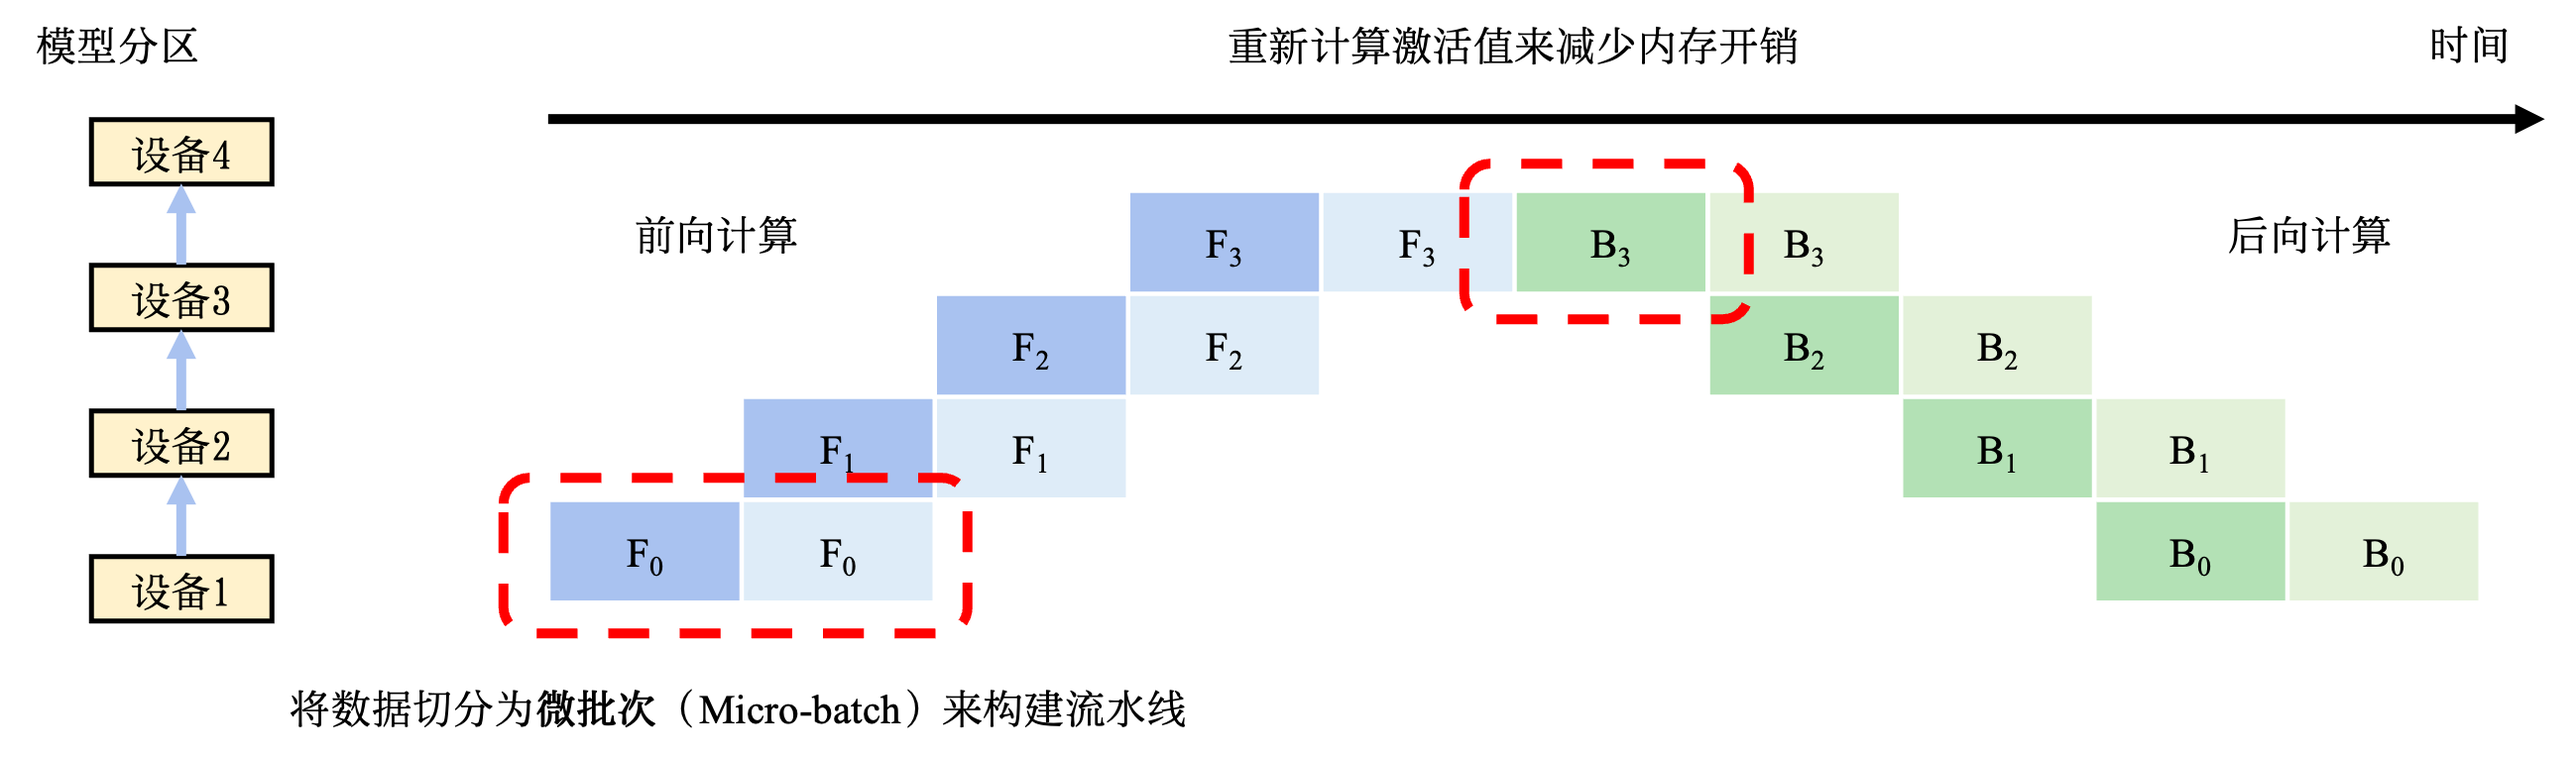
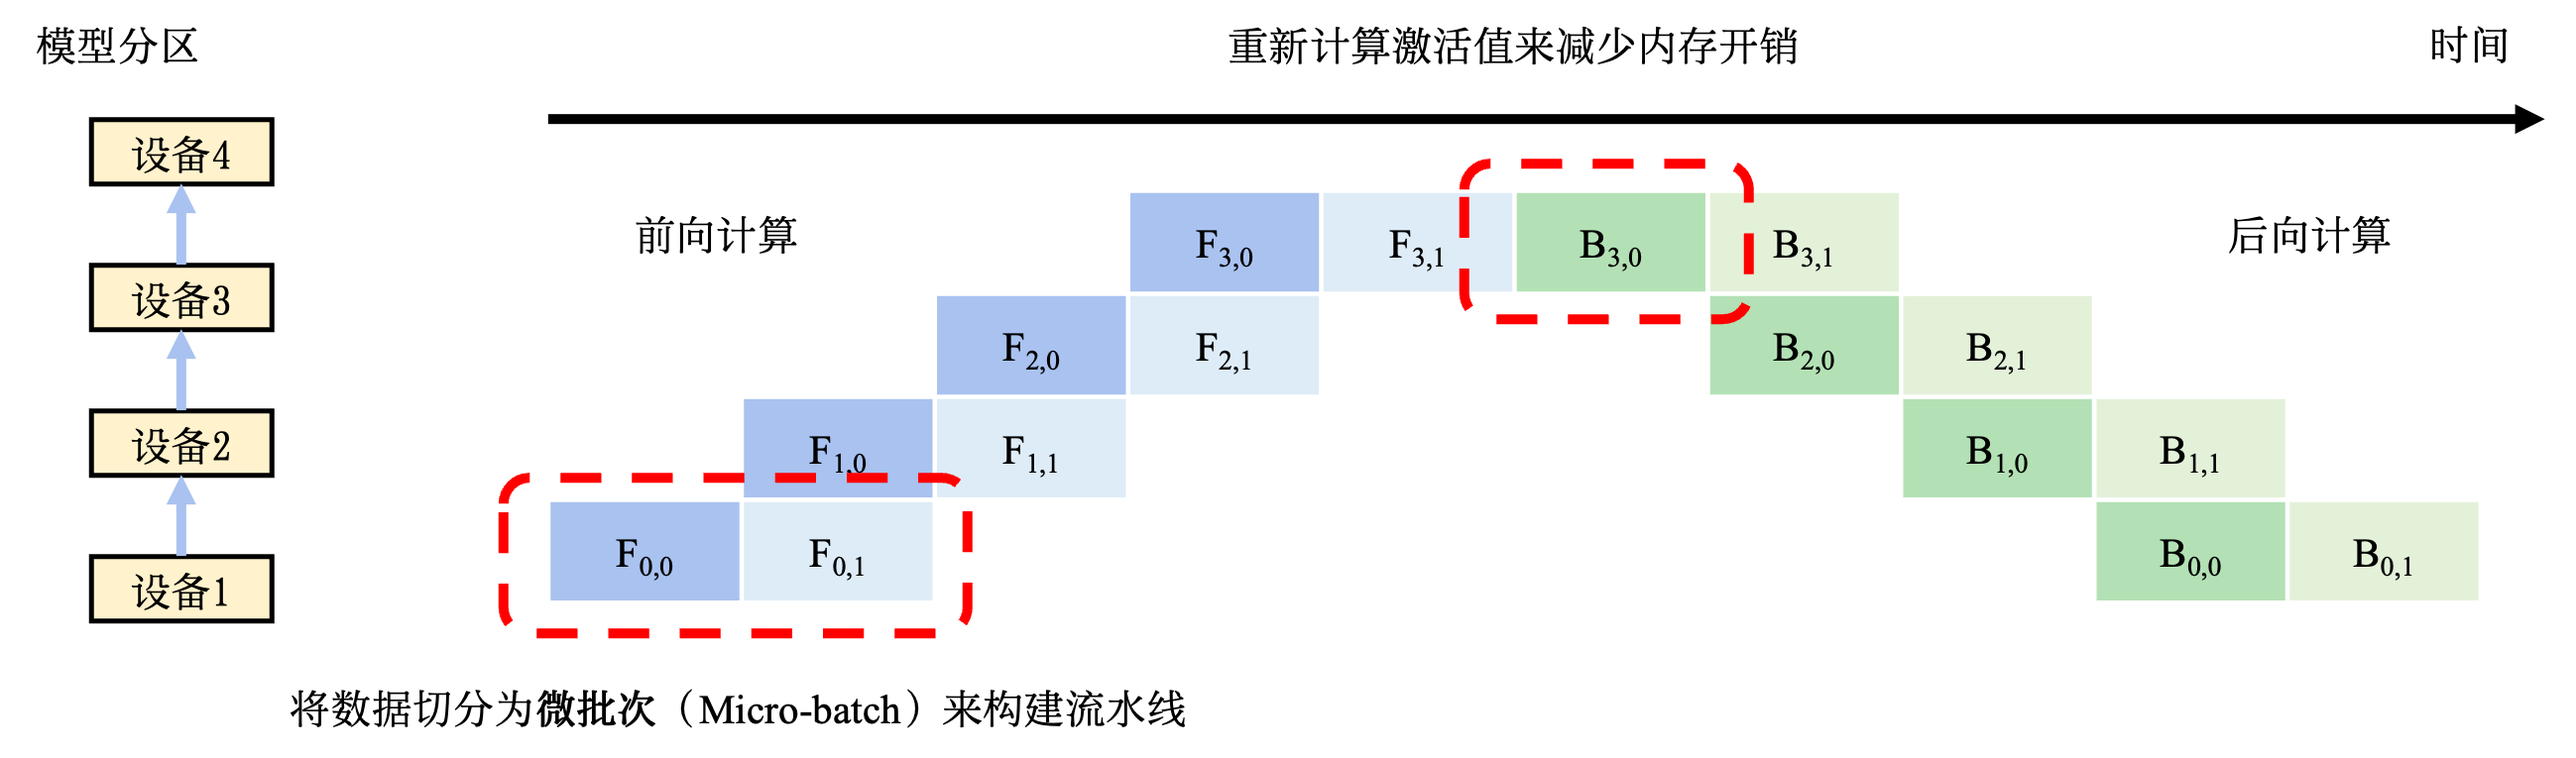
fix a bug

diff --git a/chapter_distributed_training/pipeline.md b/chapter_distributed_training/pipeline.md
@@ -5,7 +5,7 @@
 然而，当这类系统的运行中，计算图中的下游设备需要长期持续处于空闲状态，等待上游设备的计算完成，才可以开始计算，这极大降低了设备的平均使用率。这种现象被称为模型并行空洞（Model
 Parallelism Bubble）。
 
-![流水线并行系统。注意！图的F和B任务的编号需要更新！](../img/ch09/ch10-pipeline-parallel.png)
+![流水线并行系统。$F_{n,m}$表示第$m$个微批量的第$n$个前向stage，$B_{n,m}$表示第$m$个微批量的第$n$个反向stage。](../img/ch09/ch10-pipeline-parallel.png)
 :width:`800px`
 :label:`ch10-pipeline-parallel`
 
